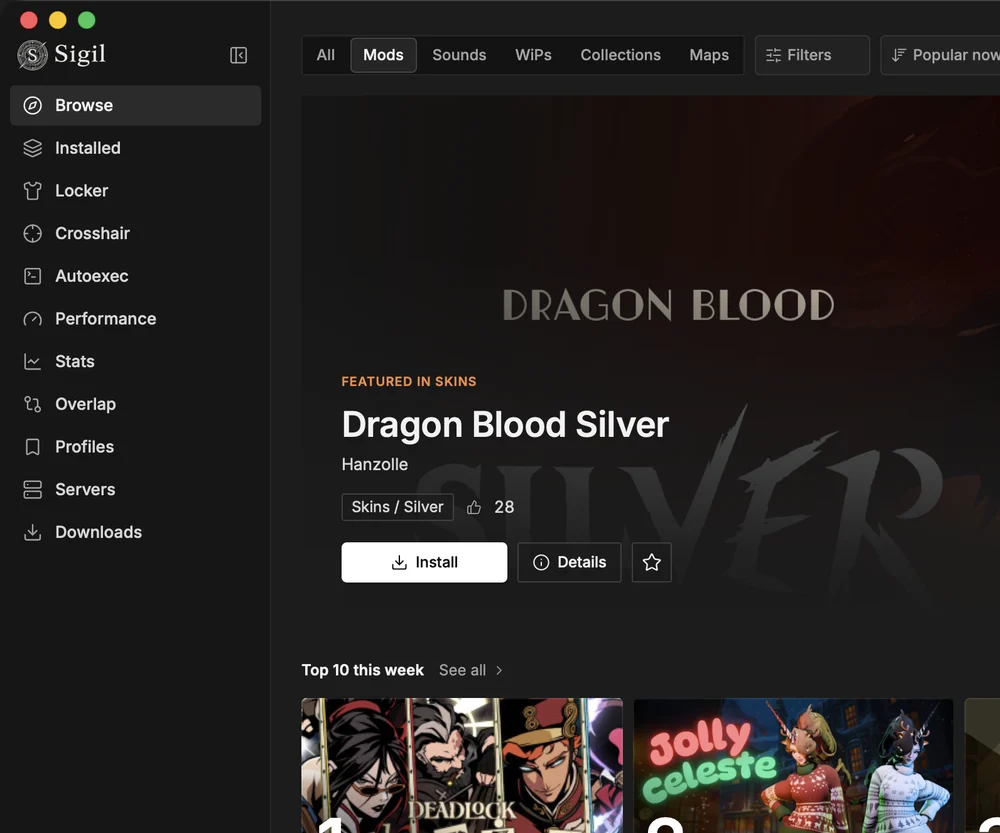
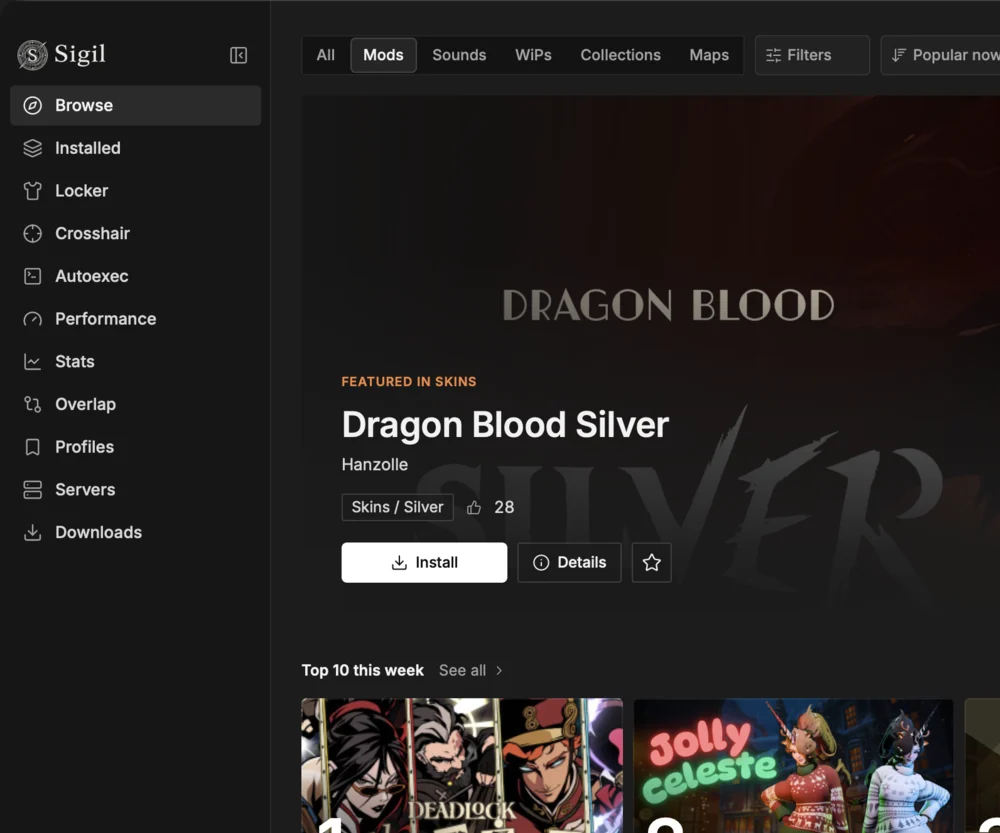
fix(site): full Browse screenshot with the status bar

diff --git a/site/browse.html b/site/browse.html
@@ -85,7 +85,7 @@
     <h1 id="page-title" class="display">Browse and install Deadlock mods from GameBanana</h1>
     <div class="doc__body">
 <p>Sigil reads GameBanana&#x27;s Deadlock catalog live, so you can find a mod, read its page and install it without a browser or an unzip step.</p>
-<figure class="doc__fig"><img class="shot" src="/img/hero-1200.webp" width="1200" height="736" loading="eager" fetchpriority="high" decoding="async" alt="Sigil&#x27;s Browse page with a trending banner, a top ten for the week and a row of rising mods."></figure>
+<figure class="doc__fig"><img class="shot" src="/img/hero-1200.webp" width="1200" height="759" loading="eager" fetchpriority="high" decoding="async" alt="Sigil&#x27;s Browse page with a trending banner, a top ten for the week and a row of rising mods."></figure>
 <h2 id="finding-a-mod">Finding a mod</h2>
 <p>The landing page shows the week&#x27;s top mods, trending rails, a Browse by hero rail and featured picks. Tabs split mods, sounds and work in progress. On the left you can pick a category, a subcategory or a hero; a hero pick also finds that hero&#x27;s sounds and HUD work.</p>
 <p>Filters cover NSFW content, outdated mods, whether a mod is already installed and featured mods. Sort by newest, recently updated, most liked, most viewed, most downloaded or name, and limit results to a date window. Active filters show as chips you can remove one at a time. Favorites are saved on your PC, and mods or creators you hide stay out of the way until you bring them back.</p>

diff --git a/site/index.html b/site/index.html
@@ -167,7 +167,7 @@
       <div class="wrap"><div class="stage__card">
         <picture>
           <source media="(max-width: 640px)" srcset="/img/hero-phone.webp" width="1000" height="833">
-          <img class="shot shot--hero" src="/img/hero.webp" srcset="/img/hero-1200.webp 1200w, /img/hero.webp 2400w" sizes="(max-width: 1264px) calc(100vw - 64px), 1200px" width="2400" height="1472" alt="Sigil&#x27;s Browse page: GameBanana mods with a featured banner, a top ten for the week, and Launch modded in the sidebar." fetchpriority="high">
+          <img class="shot shot--hero" src="/img/hero.webp" srcset="/img/hero-1200.webp 1200w, /img/hero.webp 2400w" sizes="(max-width: 1264px) calc(100vw - 64px), 1200px" width="2400" height="1518" alt="Sigil&#x27;s Browse page: GameBanana mods with a featured banner, a top ten for the week, and Launch modded in the sidebar." fetchpriority="high">
         </picture>
       </div></div>
     </div>

diff --git a/site/build.py b/site/build.py
@@ -512,7 +512,7 @@ def build_home(pages):
       <div class="wrap"><div class="stage__card">
         <picture>
           <source media="(max-width: 640px)" srcset="/img/hero-phone.webp" width="1000" height="833">
-          <img class="shot shot--hero" src="/img/hero.webp" srcset="/img/hero-1200.webp 1200w, /img/hero.webp 2400w" sizes="(max-width: 1264px) calc(100vw - 64px), 1200px" width="2400" height="1472" alt="{esc(HOME["hero_alt"])}" fetchpriority="high">
+          <img class="shot shot--hero" src="/img/hero.webp" srcset="/img/hero-1200.webp 1200w, /img/hero.webp 2400w" sizes="(max-width: 1264px) calc(100vw - 64px), 1200px" width="2400" height="1518" alt="{esc(HOME["hero_alt"])}" fetchpriority="high">
         </picture>
       </div></div>
     </div>
